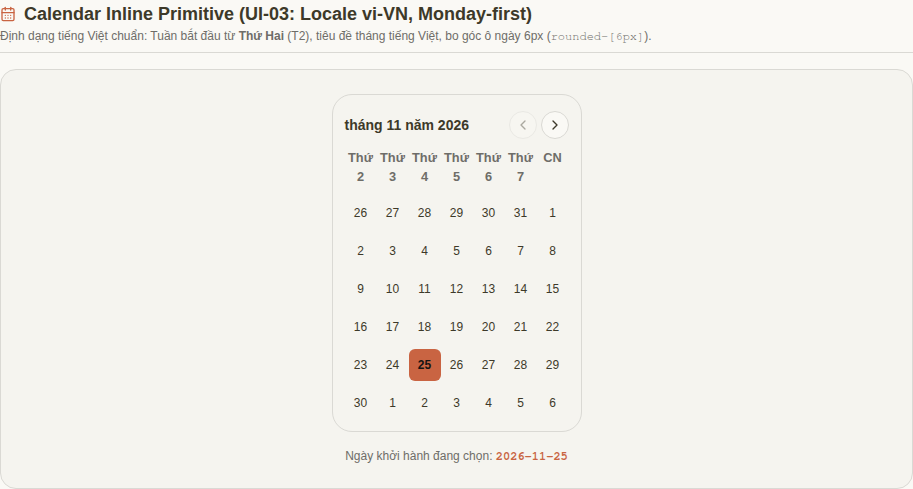
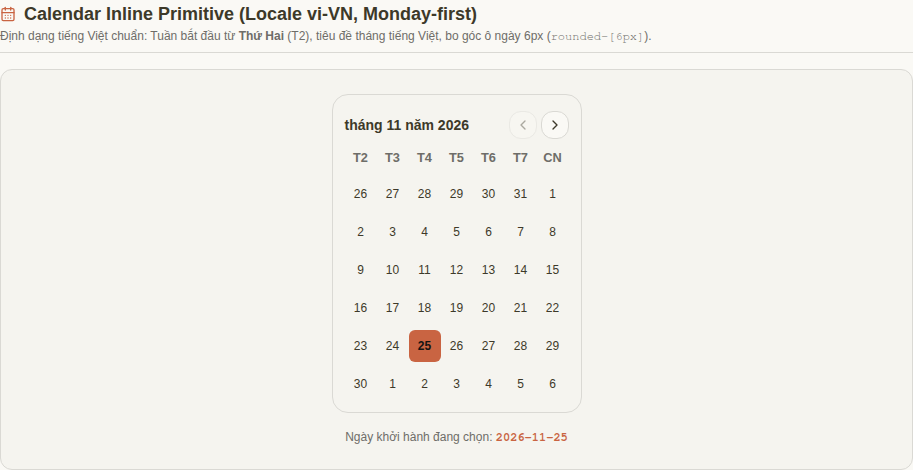
test(e2e): eliminate false-positives and update Gate A interactive screenshots (REV-07)

diff --git a/frontend/e2e/showcase-audit.spec.js b/frontend/e2e/showcase-audit.spec.js
@@ -6,30 +6,59 @@ const __filename = fileURLToPath(import.meta.url)
 const __dirname = path.dirname(__filename)
 const screenshotDir = path.resolve(__dirname, '../../docs/frontend-v2/screenshots-showcase-hub')
 
-test.describe('Showcase UI Fidelity & Interactive Audit (UI-01 through UI-14)', () => {
-  test('Audit 01: Desktop Showcase Hub Overview & Foundations (Light Mode)', async ({ page }) => {
+test.describe('Showcase UI Fidelity & Interactive Audit (REV-01 through REV-08)', () => {
+  test('Audit 01: Desktop Showcase Hub Overview & Semantic Geometry Verification', async ({ page }) => {
     await page.setViewportSize({ width: 1440, height: 900 })
     await page.goto('/showcase')
     await page.waitForLoadState('networkidle')
 
+    // 1. Verify Header & Title
     await expect(page.locator('h1')).toContainText('VeloBus UI Component Specification')
+
+    // 2. REV-01: Verify role-specific semantic geometry (border-radius)
+    // Checkbox must have 4px border-radius
+    const checkbox = page.locator('#cb-1')
+    await expect(checkbox).toBeVisible()
+    const checkboxRadius = await checkbox.evaluate(el => window.getComputedStyle(el).borderRadius)
+    expect(checkboxRadius).toBe('4px')
+
+    // Button must have 8px border-radius
+    const primaryBtn = page.locator('#controls-buttons button:has-text("Primary Button")')
+    await expect(primaryBtn).toBeVisible()
+    const btnRadius = await primaryBtn.evaluate(el => window.getComputedStyle(el).borderRadius)
+    expect(btnRadius).toBe('8px')
+
+    // Input must have 8px border-radius
+    const sampleInput = page.locator('#controls-inputs input').first()
+    await expect(sampleInput).toBeVisible()
+    const inputRadius = await sampleInput.evaluate(el => window.getComputedStyle(el).borderRadius)
+    expect(inputRadius).toBe('8px')
+
+    // Card/Container surface with rounded-xl must have 16px border-radius
+    const surfaceCard = page.locator('.rounded-xl').first()
+    await expect(surfaceCard).toBeVisible()
+    const cardRadius = await surfaceCard.evaluate(el => window.getComputedStyle(el).borderRadius)
+    expect(cardRadius).toBe('16px')
+
     await page.screenshot({
       path: path.join(screenshotDir, 'showcase-hub-desktop-light-corrected.png'),
       fullPage: false
     })
   })
 
-  test('Audit 02: Desktop Showcase Hub (Dark Mode)', async ({ page }) => {
+  test('Audit 02: Desktop Showcase Hub (Dark Mode & Color Tokens)', async ({ page }) => {
     await page.setViewportSize({ width: 1440, height: 900 })
     await page.goto('/showcase')
     await page.waitForLoadState('networkidle')
 
-    // Click dark mode toggle button in header
-    const themeButton = page.locator('header button[title*="Chuyển sang giao diện Tối"], header button:has(.lucide-moon)')
-    if (await themeButton.isVisible()) {
-      await themeButton.click()
-      await page.waitForTimeout(300)
-    }
+    // Toggle dark mode
+    const themeButton = page.locator('header button[title*="Chuyển sang giao diện Tối"], header button:has(.lucide-moon)').first()
+    await expect(themeButton).toBeVisible()
+    await themeButton.click()
+
+    // Assert dark mode class is applied to html root
+    await expect(page.locator('html')).toHaveClass(/dark/)
+    await page.waitForTimeout(300)
 
     await page.screenshot({
       path: path.join(screenshotDir, 'showcase-hub-desktop-dark-corrected.png'),
@@ -44,17 +73,25 @@ test.describe('Showcase UI Fidelity & Interactive Audit (UI-01 through UI-14)', 
 
     const calendarSection = page.locator('#calendar-inline')
     await calendarSection.scrollIntoViewIfNeeded()
-    await page.waitForTimeout(300)
-
-    // Verify Vietnamese weekdays header (T2 or Thứ 2)
     await expect(calendarSection).toBeVisible()
+
+    // Verify Vietnamese weekdays header (T2, T3, T4, T5, T6, T7, CN)
+    const weekdayHeaders = calendarSection.locator('th')
+    await expect(weekdayHeaders.first()).toHaveText('T2')
+
+    // Verify calendar day button border-radius is 6px
+    const dayBtn = calendarSection.locator('[data-reka-calendar-cell-trigger]').first()
+    await expect(dayBtn).toBeVisible()
+    const dayRadius = await dayBtn.evaluate(el => window.getComputedStyle(el).borderRadius)
+    expect(dayRadius).toBe('6px')
+
     await page.screenshot({
       path: path.join(screenshotDir, 'showcase-calendar-vi-vn-corrected.png'),
       clip: await calendarSection.boundingBox() || undefined
     })
   })
 
-  test('Audit 04: DatePicker Popover Open State & TimePicker 24H', async ({ page }) => {
+  test('Audit 04: DatePicker Popover Open State & TimePicker Single Affordance', async ({ page }) => {
     await page.setViewportSize({ width: 1280, height: 800 })
     await page.goto('/showcase')
     await page.waitForLoadState('networkidle')
@@ -64,15 +101,20 @@ test.describe('Showcase UI Fidelity & Interactive Audit (UI-01 through UI-14)', 
 
     // Click DatePicker Popover trigger button
     const dateButton = datepickerSection.locator('button:has-text("/")').first()
-    if (await dateButton.isVisible()) {
-      await dateButton.click()
-      await page.waitForTimeout(400)
-    }
+    await expect(dateButton).toBeVisible()
+    await dateButton.click()
+
+    // Assert DatePicker popover content is open by checking day trigger inside open popover
+    const openDayTrigger = page.locator('[data-state="open"] [data-reka-calendar-cell-trigger]').first()
+    await expect(openDayTrigger).toBeVisible()
 
     await page.screenshot({
       path: path.join(screenshotDir, 'showcase-datepicker-popover-open.png'),
       fullPage: false
     })
+
+    // Close popover
+    await page.keyboard.press('Escape')
   })
 
   test('Audit 04b: Custom TimePicker 24H Dropdown Open State', async ({ page }) => {
@@ -85,15 +127,24 @@ test.describe('Showcase UI Fidelity & Interactive Audit (UI-01 through UI-14)', 
 
     // Click TimePicker SelectTrigger for hour
     const hourTrigger = datepickerSection.locator('[role="combobox"]').first()
-    if (await hourTrigger.isVisible()) {
-      await hourTrigger.click()
-      await page.waitForTimeout(400)
-    }
+    await expect(hourTrigger).toBeVisible()
+    await hourTrigger.click()
+
+    // Assert Select dropdown content is open
+    const selectContent = page.locator('[role="listbox"]').first()
+    await expect(selectContent).toBeVisible()
+
+    // Assert options are present
+    const option08 = page.locator('[role="option"]:has-text("08")').first()
+    await expect(option08).toBeVisible()
 
     await page.screenshot({
       path: path.join(screenshotDir, 'showcase-timepicker-dropdown-open.png'),
       fullPage: false
     })
+
+    // Close select
+    await page.keyboard.press('Escape')
   })
 
   test('Audit 05: DateRangePicker with Month Crossing & Presets Popover Open State', async ({ page }) => {
@@ -104,34 +155,59 @@ test.describe('Showcase UI Fidelity & Interactive Audit (UI-01 through UI-14)', 
     const rangeSection = page.locator('#calendar-range')
     await rangeSection.scrollIntoViewIfNeeded()
 
-    // Click Range Picker trigger button
-    const rangeButton = rangeSection.locator('button:has(.lucide-calendar)').first()
-    if (await rangeButton.isVisible()) {
-      await rangeButton.click()
-      await page.waitForTimeout(400)
-    }
+    // 1. Open Date Range Calendar Popover
+    const rangeButton = rangeSection.locator('button:has-text("—")').first()
+    await expect(rangeButton).toBeVisible()
+    await rangeButton.click()
+
+    // Assert Range Calendar popover is open
+    const openRangeCell = page.locator('[data-state="open"] [data-reka-calendar-cell-trigger]').first()
+    await expect(openRangeCell).toBeVisible()
+
+    // Close calendar popover
+    await page.keyboard.press('Escape')
+    await page.waitForTimeout(200)
+
+    // 2. Open Presets Dropdown Menu
+    const presetButton = rangeSection.locator('button:has-text("Chọn nhanh khoảng ngày")')
+    await expect(presetButton).toBeVisible()
+    await presetButton.click()
+
+    // Assert Presets menu is open
+    const presetMenu = page.locator('[role="menu"]')
+    await expect(presetMenu).toBeVisible()
+    await expect(presetMenu.locator('[role="menuitem"]:has-text("7 ngày tới (1 tuần)")')).toBeVisible()
 
     await page.screenshot({
       path: path.join(screenshotDir, 'showcase-range-presets-open.png'),
       fullPage: false
     })
+
+    // Select preset to verify reactive binding
+    await presetMenu.locator('[role="menuitem"]:has-text("7 ngày tới (1 tuần)")').click()
+    await page.waitForTimeout(200)
   })
 
-  test('Audit 06: DataTable Density Modes, Row Selection & Pagination State', async ({ page }) => {
+  test('Audit 06: TanStack DataTable Density Modes, Selection & Pagination', async ({ page }) => {
     await page.setViewportSize({ width: 1280, height: 900 })
     await page.goto('/showcase')
     await page.waitForLoadState('networkidle')
 
     const tableSection = page.locator('#data-table')
     await tableSection.scrollIntoViewIfNeeded()
+    await expect(tableSection).toBeVisible()
 
-    // 1. Select the first two rows
-    const checkboxes = tableSection.locator('input[type="checkbox"], button[role="checkbox"]')
-    if (await checkboxes.count() > 2) {
-      await checkboxes.nth(1).click()
-      await checkboxes.nth(2).click()
-      await page.waitForTimeout(200)
-    }
+    // 1. Select the first two rows via checkbox
+    const rowCheckboxes = tableSection.locator('tbody tr button[role="checkbox"]')
+    await expect(rowCheckboxes.first()).toBeVisible()
+    await rowCheckboxes.nth(0).click()
+    await page.waitForTimeout(150)
+    await rowCheckboxes.nth(1).click()
+    await page.waitForTimeout(150)
+
+    // Assert selection message in batch selection bar
+    const selectionBar = page.locator('text=Đã chọn 2 đơn vé trên bảng dữ liệu')
+    await expect(selectionBar).toBeVisible()
 
     // Capture Default density
     await page.screenshot({
@@ -140,26 +216,30 @@ test.describe('Showcase UI Fidelity & Interactive Audit (UI-01 through UI-14)', 
     })
 
     // 2. Switch to Compact density
-    const compactBtn = tableSection.locator('button:has-text("Compact"), button:has-text("Gọn")')
-    if (await compactBtn.isVisible()) {
-      await compactBtn.click()
-      await page.waitForTimeout(200)
-      await page.screenshot({
-        path: path.join(screenshotDir, 'showcase-datatable-density-compact.png'),
-        clip: await tableSection.boundingBox() || undefined
-      })
-    }
+    const compactBtn = tableSection.locator('button:has-text("Gọn")')
+    await expect(compactBtn).toBeVisible()
+    await compactBtn.click()
+    await page.waitForTimeout(200)
 
-    // 3. Click next page
+    await page.screenshot({
+      path: path.join(screenshotDir, 'showcase-datatable-density-compact.png'),
+      clip: await tableSection.boundingBox() || undefined
+    })
+
+    // 3. Test Pagination: click "Sau"
     const nextBtn = tableSection.locator('button:has-text("Sau")')
-    if (await nextBtn.isEnabled()) {
-      await nextBtn.click()
-      await page.waitForTimeout(200)
-      await page.screenshot({
-        path: path.join(screenshotDir, 'showcase-datatable-pagination-page2.png'),
-        clip: await tableSection.boundingBox() || undefined
-      })
-    }
+    await expect(nextBtn).toBeEnabled()
+    await nextBtn.click()
+    await page.waitForTimeout(200)
+
+    // Assert page 2
+    const pageText = tableSection.locator('text=Trang 2 / 2')
+    await expect(pageText).toBeVisible()
+
+    await page.screenshot({
+      path: path.join(screenshotDir, 'showcase-datatable-pagination-page2.png'),
+      clip: await tableSection.boundingBox() || undefined
+    })
   })
 
   test('Audit 07: Dropdown Menu System Open Interactive State', async ({ page }) => {
@@ -170,16 +250,22 @@ test.describe('Showcase UI Fidelity & Interactive Audit (UI-01 through UI-14)', 
     const dropdownSection = page.locator('#nav-dropdown')
     await dropdownSection.scrollIntoViewIfNeeded()
 
-    const accountMenuTrigger = dropdownSection.locator('button:has-text("Tài khoản cá nhân")')
-    if (await accountMenuTrigger.isVisible()) {
-      await accountMenuTrigger.click()
-      await page.waitForTimeout(300)
-    }
+    const accountMenuTrigger = dropdownSection.locator('button:has-text("Tài Khoản Quản Trị")')
+    await expect(accountMenuTrigger).toBeVisible()
+    await accountMenuTrigger.click()
+
+    // Assert dropdown menu is visible and contains expected items
+    const menuContent = page.locator('[role="menu"]')
+    await expect(menuContent).toBeVisible()
+    await expect(menuContent.locator('[role="menuitem"]:has-text("Hồ sơ cá nhân")')).toBeVisible()
 
     await page.screenshot({
       path: path.join(screenshotDir, 'showcase-dropdown-menu-open.png'),
       fullPage: false
     })
+
+    // Close menu
+    await page.keyboard.press('Escape')
   })
 
   test('Audit 08: Modals, Dialogs and Feedback Open Interactive State', async ({ page }) => {
@@ -190,16 +276,24 @@ test.describe('Showcase UI Fidelity & Interactive Audit (UI-01 through UI-14)', 
     const feedbackSection = page.locator('#feedback-modals')
     await feedbackSection.scrollIntoViewIfNeeded()
 
-    const dialogBtn = feedbackSection.locator('button:has-text("Mở Dialog"), button:has-text("Xác nhận")').first()
-    if (await dialogBtn.isVisible()) {
-      await dialogBtn.click()
-      await page.waitForTimeout(400)
-    }
+    const dialogBtn = feedbackSection.locator('button:has-text("Mở Dialog Chuẩn")')
+    await expect(dialogBtn).toBeVisible()
+    await dialogBtn.click()
+
+    // Assert Dialog is visible and has correct content
+    const dialogContent = page.locator('[role="dialog"]')
+    await expect(dialogContent).toBeVisible()
+    await expect(dialogContent.locator('text=Xác Nhận Giữ Chỗ Chuyến Xe')).toBeVisible()
 
     await page.screenshot({
       path: path.join(screenshotDir, 'showcase-dialog-confirmation-open.png'),
       fullPage: false
     })
+
+    // Close dialog
+    const closeBtn = dialogContent.locator('button:has-text("Đóng lại")')
+    await expect(closeBtn).toBeVisible()
+    await closeBtn.click()
   })
 
   test('Audit 09: Theme Customizer Drawer Open State', async ({ page }) => {
@@ -209,13 +303,22 @@ test.describe('Showcase UI Fidelity & Interactive Audit (UI-01 through UI-14)', 
 
     // Click "Tùy Biến Theme" in header
     const customizerBtn = page.locator('header button:has-text("Tùy Biến Theme")')
+    await expect(customizerBtn).toBeVisible()
     await customizerBtn.click()
-    await page.waitForTimeout(400)
+
+    // Assert customizer drawer is visible
+    const drawerTitle = page.locator('text=VeloBus Theme Studio')
+    await expect(drawerTitle).toBeVisible()
 
     await page.screenshot({
       path: path.join(screenshotDir, 'showcase-theme-customizer-open.png'),
       fullPage: false
     })
+
+    // Close drawer via close button
+    const closeBtn = page.locator('button[aria-label="Đóng tùy biến"]')
+    await expect(closeBtn).toBeVisible()
+    await closeBtn.click()
   })
 
   test('Audit 10: Mobile Responsive 375px Header & Navigation Sheet', async ({ page }) => {
@@ -225,13 +328,19 @@ test.describe('Showcase UI Fidelity & Interactive Audit (UI-01 through UI-14)', 
 
     // Open mobile hamburger menu
     const menuBtn = page.locator('[data-testid="mobile-menu-trigger"]')
+    await expect(menuBtn).toBeVisible()
     await menuBtn.click()
-    await page.waitForTimeout(400)
+
+    // Assert mobile sheet is visible
+    const mobileSheet = page.locator('[role="dialog"]')
+    await expect(mobileSheet).toBeVisible()
 
     await page.screenshot({
       path: path.join(screenshotDir, 'showcase-mobile-375-navigation-sheet.png'),
       fullPage: false
     })
+
+    await page.keyboard.press('Escape')
   })
 
   test('Audit 11: Mobile Responsive 375px Calendar without Overlapping Trigger', async ({ page }) => {
@@ -241,7 +350,7 @@ test.describe('Showcase UI Fidelity & Interactive Audit (UI-01 through UI-14)', 
 
     const calSection = page.locator('#calendar-inline')
     await calSection.scrollIntoViewIfNeeded()
-    await page.waitForTimeout(300)
+    await expect(calSection).toBeVisible()
 
     await page.screenshot({
       path: path.join(screenshotDir, 'showcase-mobile-375-calendar.png'),
@@ -256,7 +365,7 @@ test.describe('Showcase UI Fidelity & Interactive Audit (UI-01 through UI-14)', 
 
     const tableSection = page.locator('#data-table')
     await tableSection.scrollIntoViewIfNeeded()
-    await page.waitForTimeout(300)
+    await expect(tableSection).toBeVisible()
 
     await page.screenshot({
       path: path.join(screenshotDir, 'showcase-mobile-390-datatable.png'),
